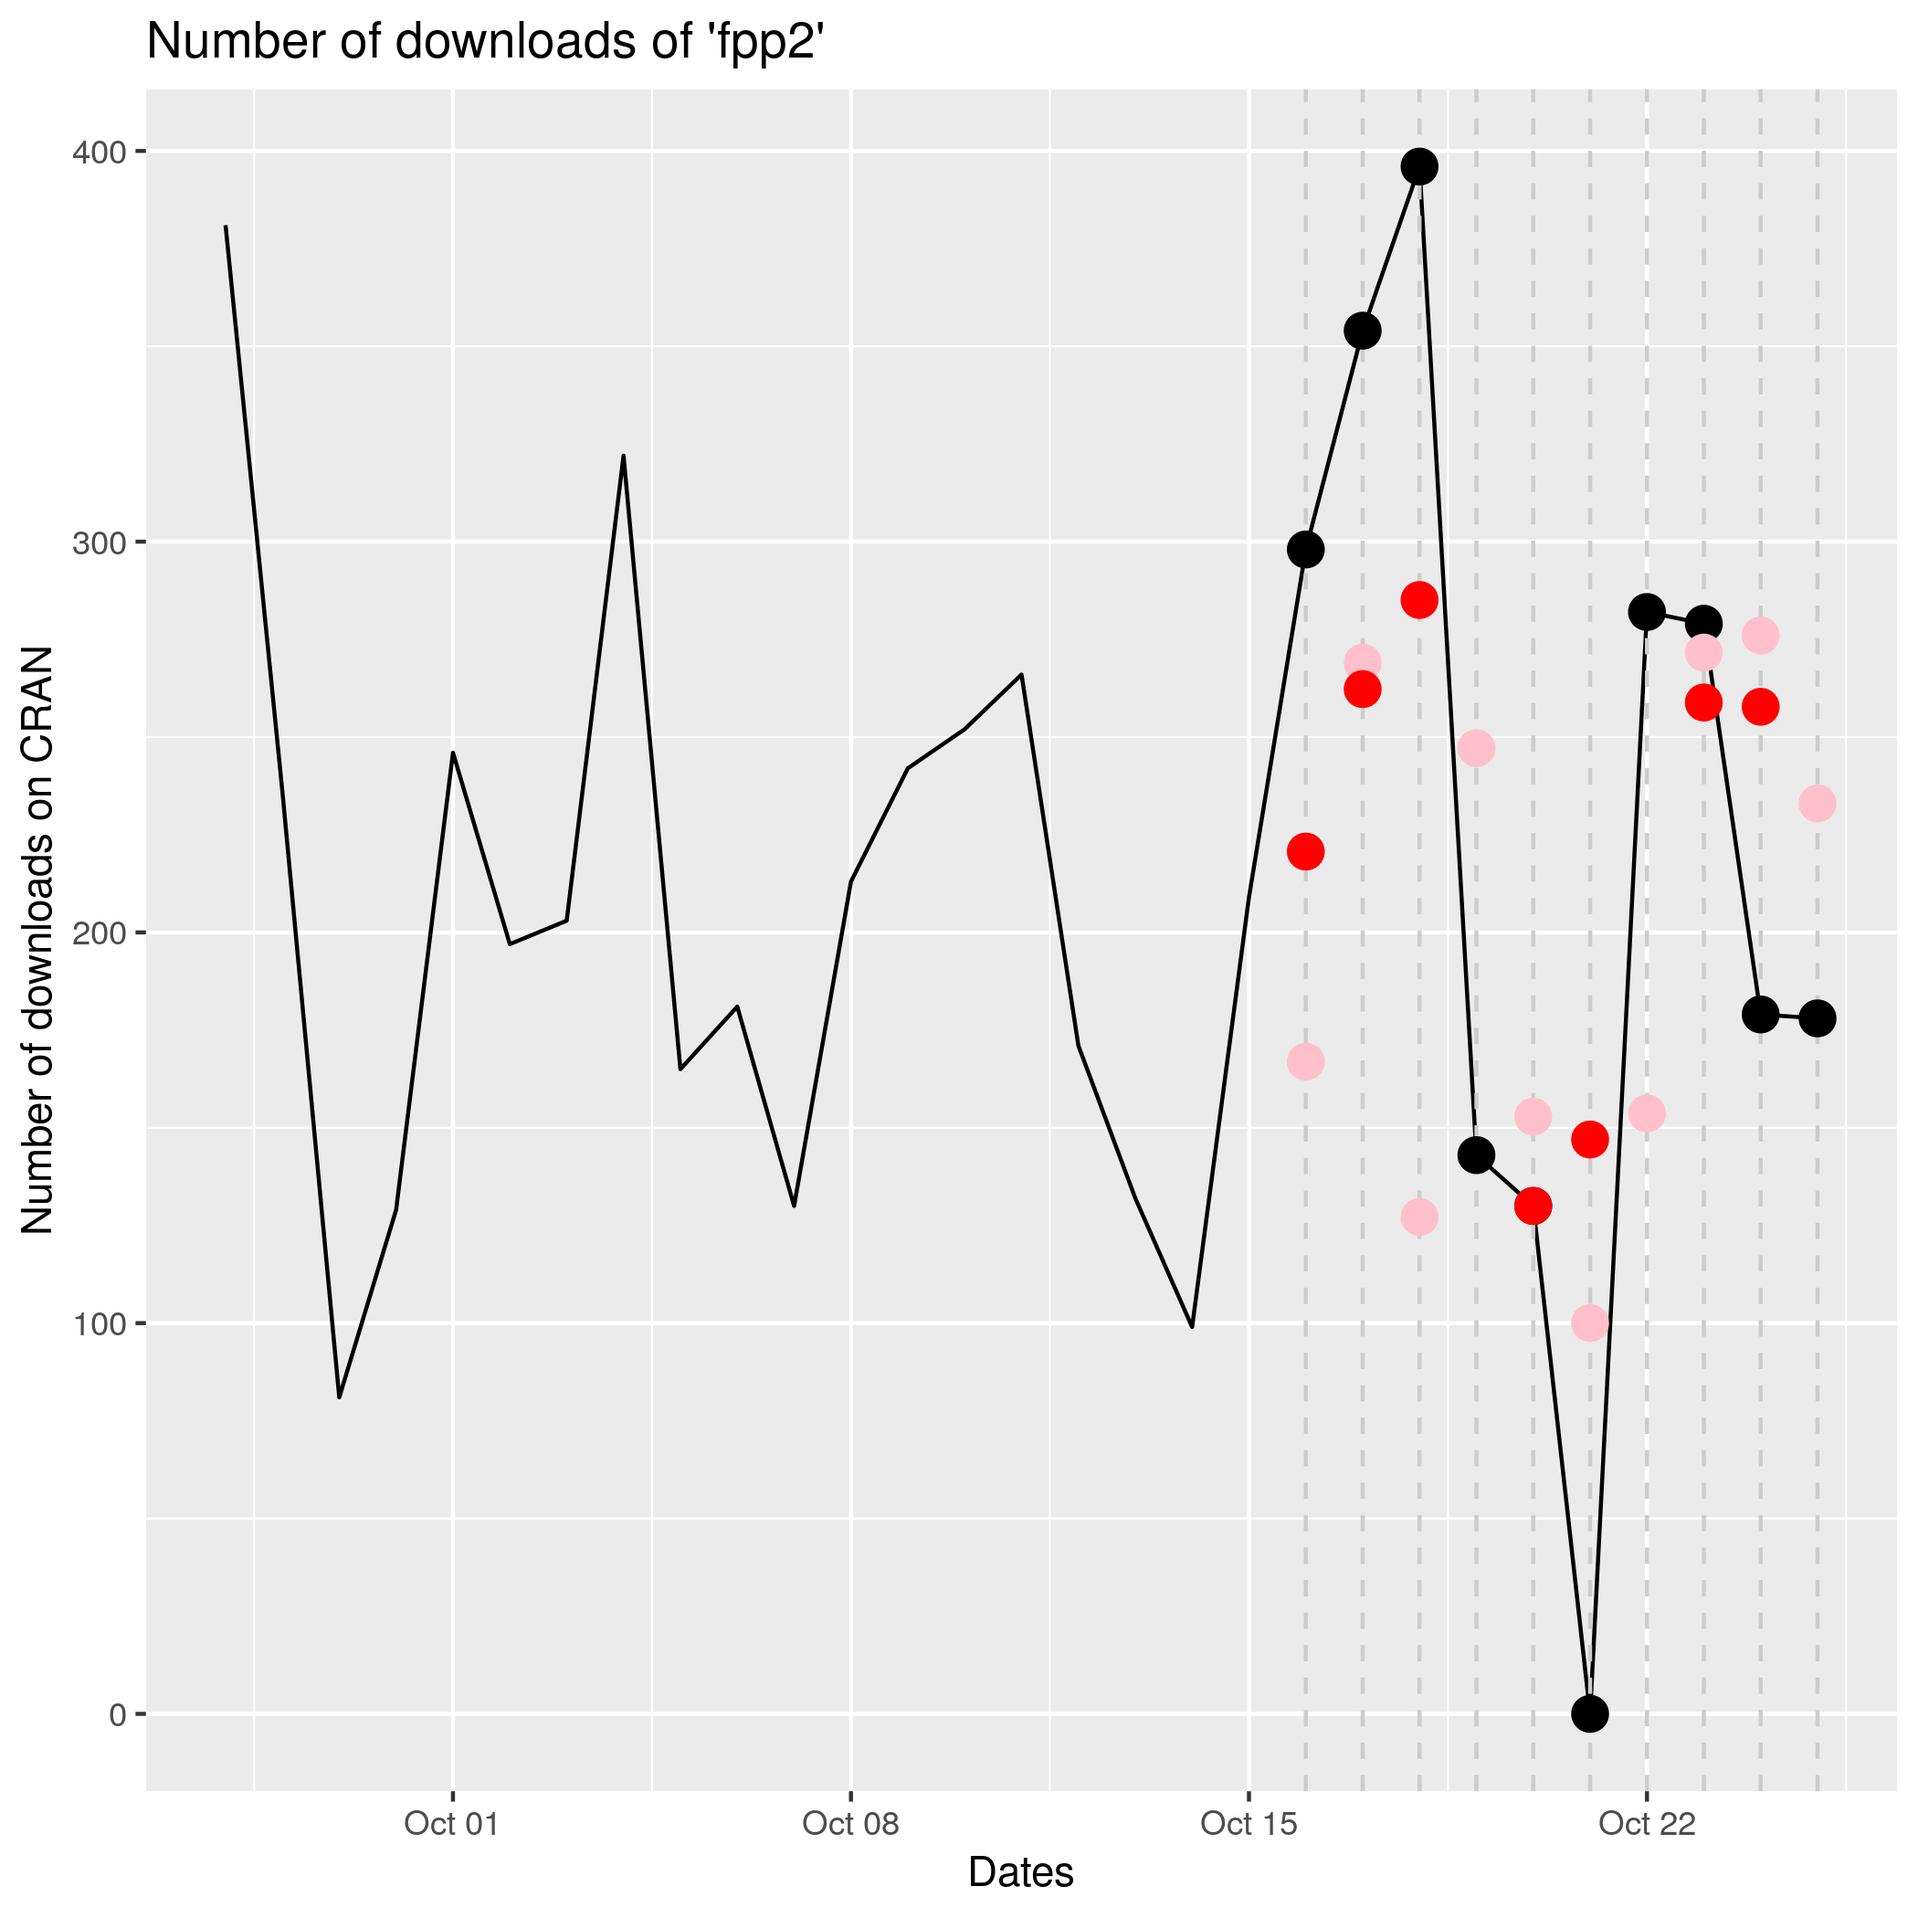
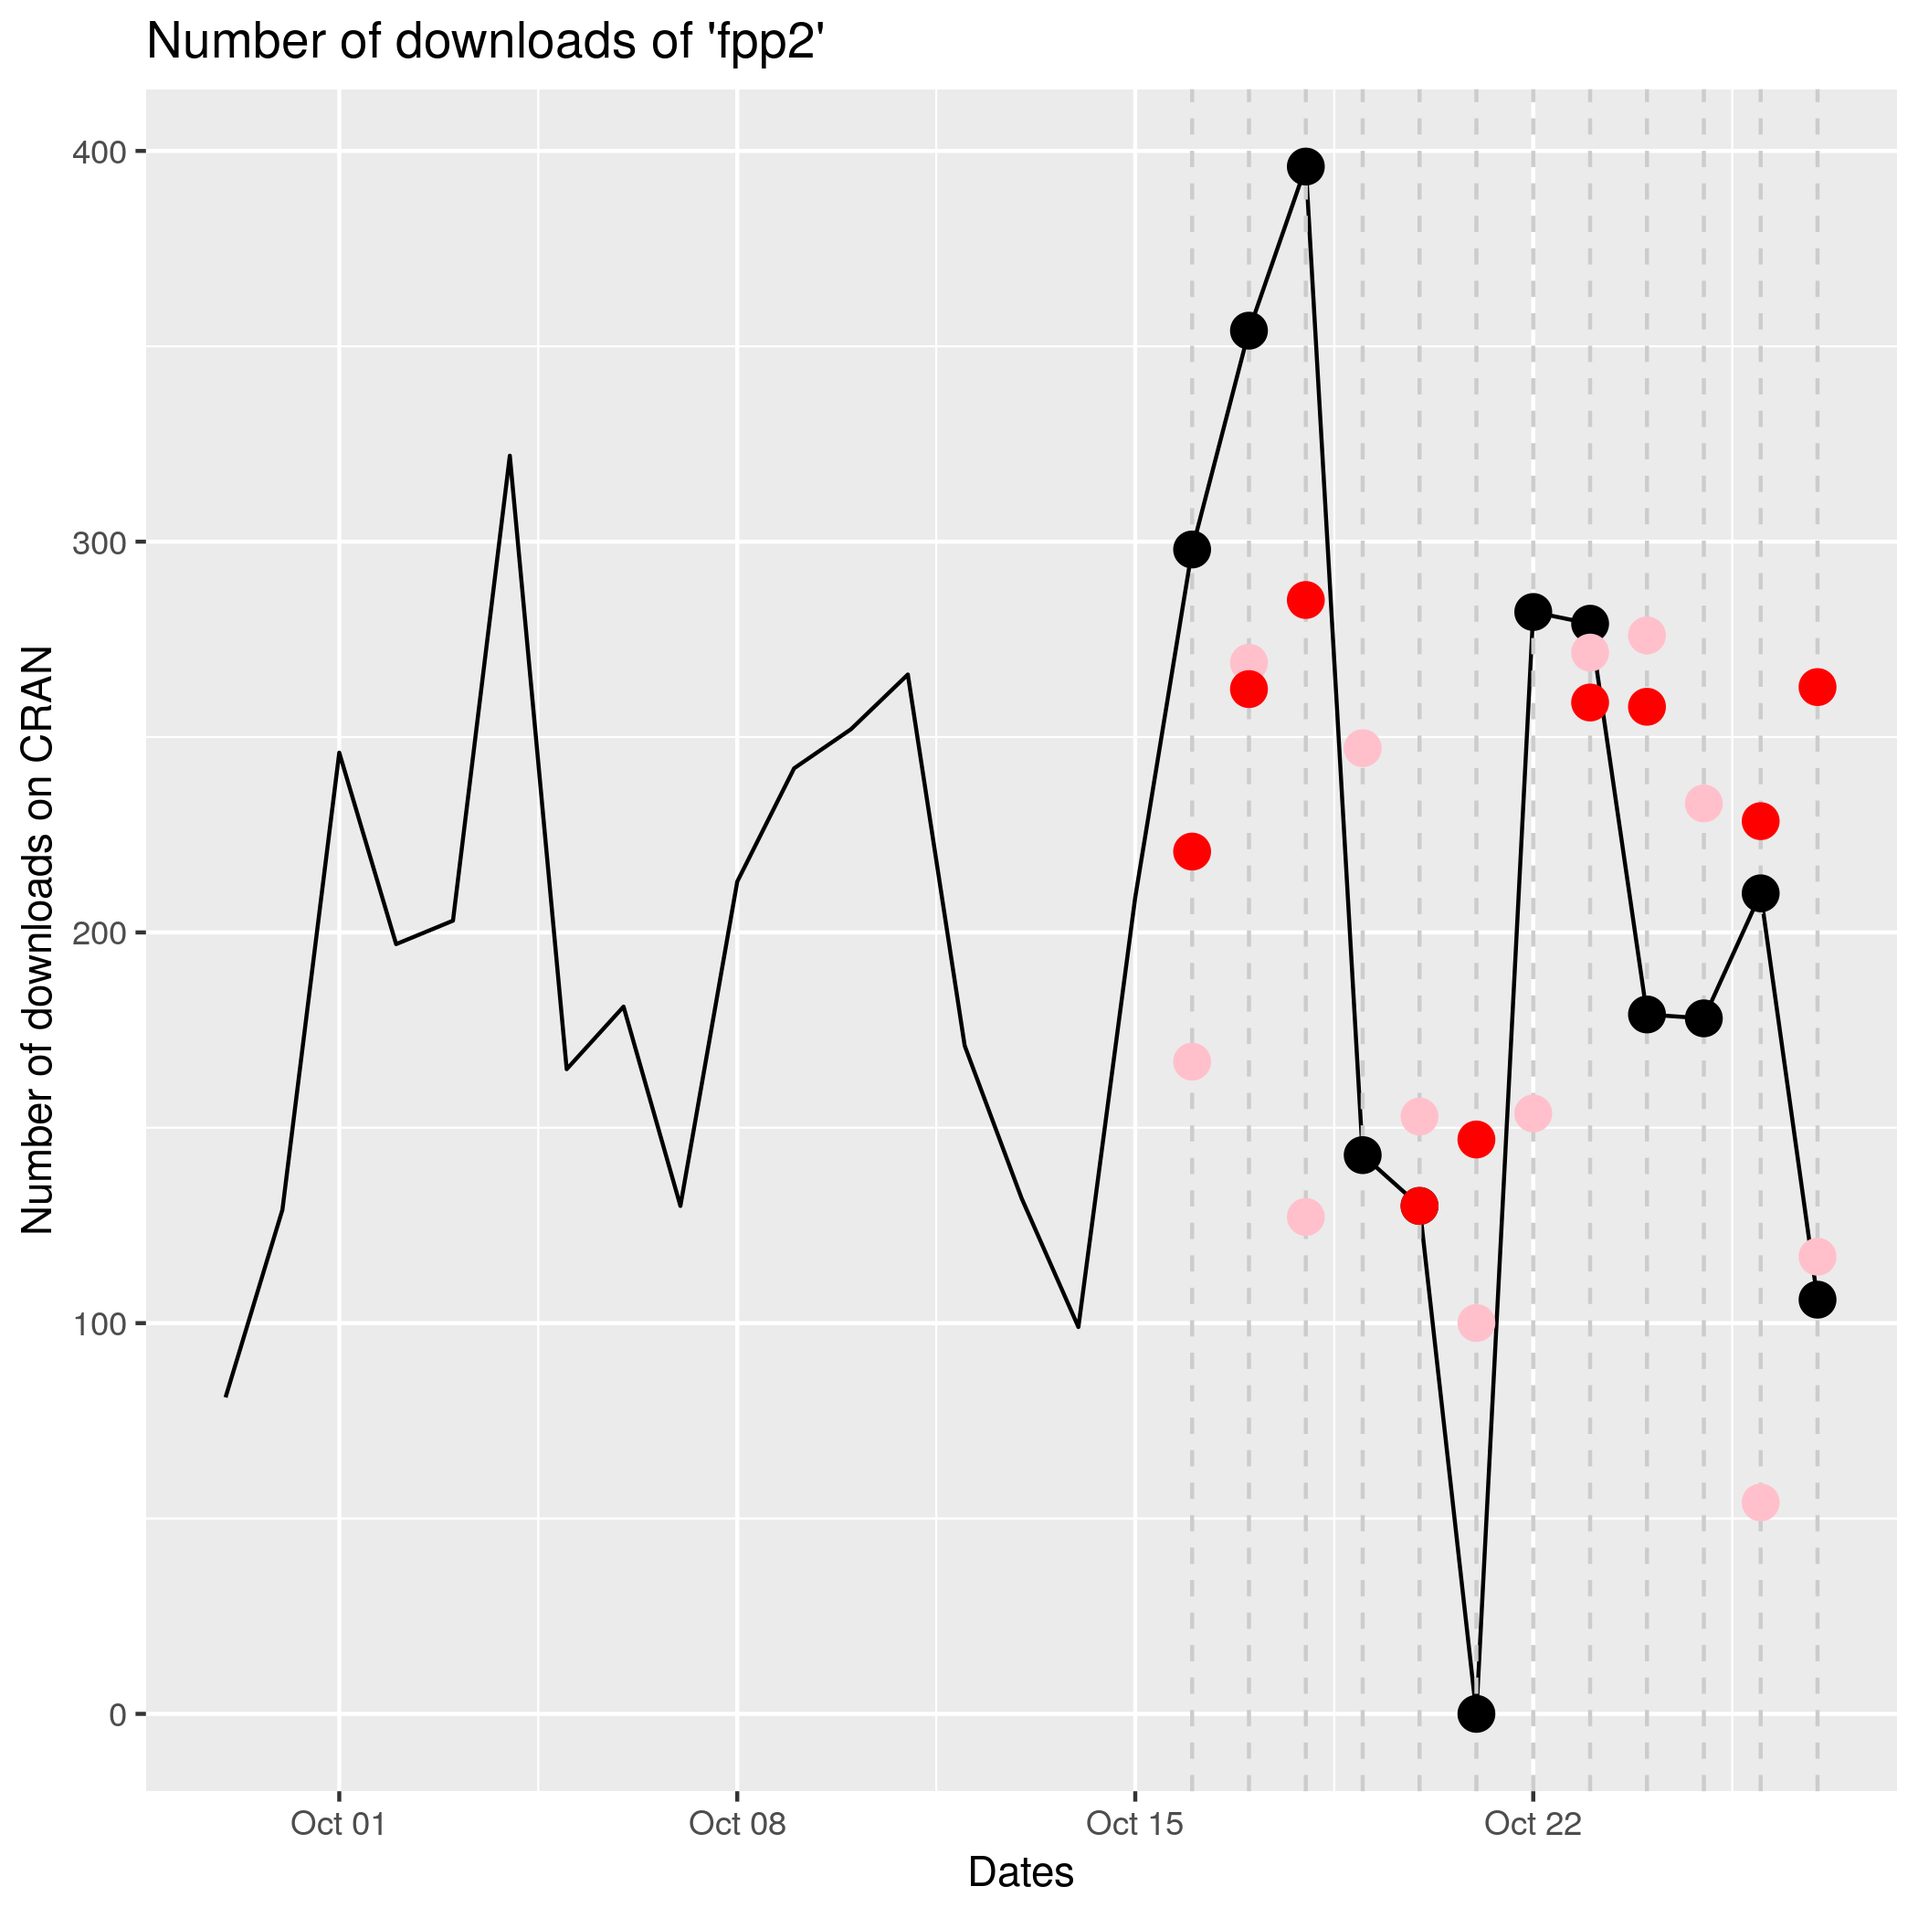
updated forecast

diff --git a/content/case-studies/r-package.md b/content/case-studies/r-package.md
@@ -86,9 +86,9 @@ ggplot(fpp2, aes(x = date, y = count)) +
 You can notice peeks and zeros appearing. These questions will be addressed in a future
 lecture.
 
-### results (update 28.10.2018)
+### results (update 29.10.2018)
 
-<img src="https://raw.githubusercontent.com/SMAC-Group/fc2018_website/master/data/fpp2_3.png" alt="fpp22" width="400px"/> 
+<img src="https://raw.githubusercontent.com/SMAC-Group/fc2018_website/master/data/fpp2_2.png" alt="fpp22" width="400px"/> 
 
 Date | <span style="color:red">Max</span> | <span style="color:pink">Lumia</span>
 --- | --- | ---
@@ -103,4 +103,5 @@ Date | <span style="color:red">Max</span> | <span style="color:pink">Lumia</span
 24.10 | 78.74 | 97.00 
 25.10 | $\emptyset$ | 55.00 
 26.10 | 18.47 | 155.89
+27.10 | 156.78 | 11.00
 Table: Absolute difference between forecast and realization.
